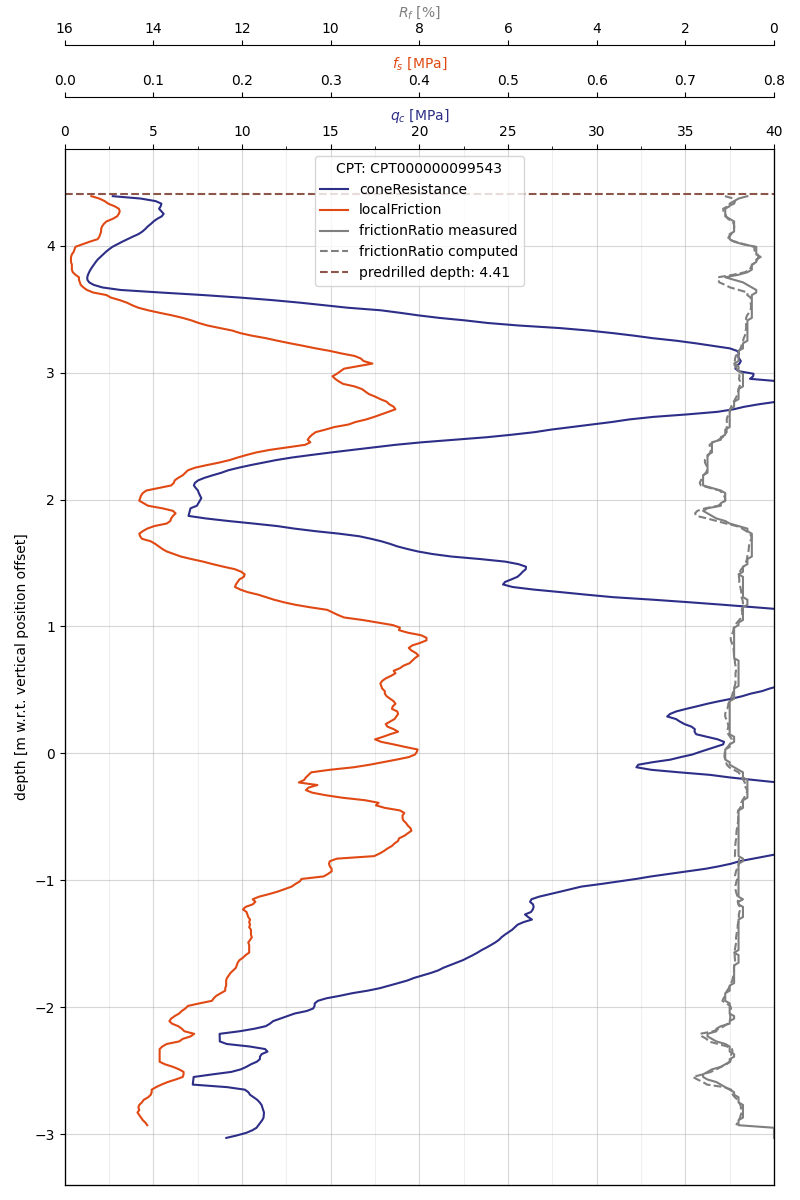
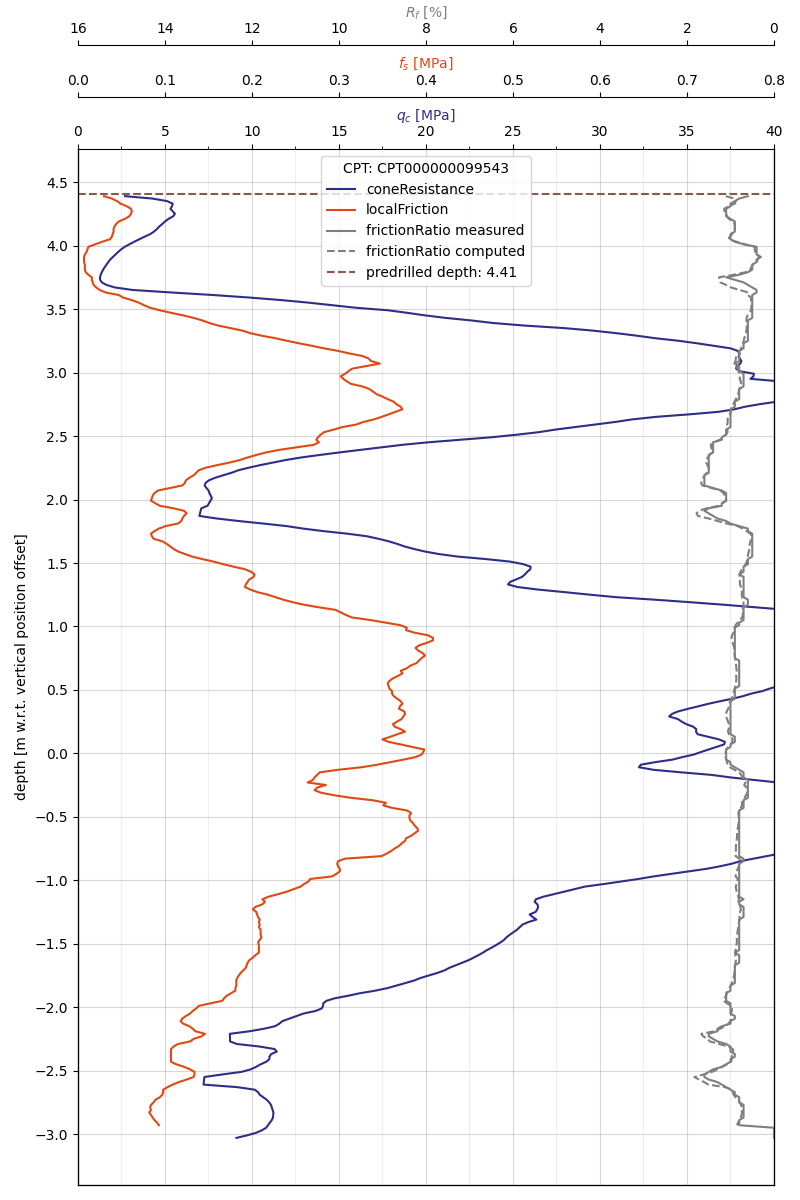
deploy: af773da8b93bf141a00030862c82b0c011303978

diff --git a/_modules/pygef/plotting.html b/_modules/pygef/plotting.html
@@ -77,6 +77,7 @@
 
 <span class="kn">import</span> <span class="nn">matplotlib.patches</span> <span class="k">as</span> <span class="nn">mpatches</span>
 <span class="kn">import</span> <span class="nn">matplotlib.pyplot</span> <span class="k">as</span> <span class="nn">plt</span>
+<span class="kn">import</span> <span class="nn">matplotlib.ticker</span> <span class="k">as</span> <span class="nn">plticker</span>
 <span class="kn">import</span> <span class="nn">numpy</span> <span class="k">as</span> <span class="nn">np</span>
 <span class="kn">from</span> <span class="nn">matplotlib.gridspec</span> <span class="kn">import</span> <span class="n">GridSpec</span>
 
@@ -89,6 +90,7 @@
     <span class="n">ctx</span> <span class="o">=</span> <span class="kc">None</span>
 
 <span class="n">FigureSize</span> <span class="o">=</span> <span class="p">(</span><span class="mi">8</span><span class="p">,</span> <span class="mi">12</span><span class="p">)</span>
+<span class="n">TickLoc</span> <span class="o">=</span> <span class="n">plticker</span><span class="o">.</span><span class="n">MultipleLocator</span><span class="p">(</span><span class="n">base</span><span class="o">=</span><span class="mf">0.5</span><span class="p">)</span>
 
 
 <div class="viewcode-block" id="plot_cpt"><a class="viewcode-back" href="../../tree/reference.html#pygef.plotting.plot_cpt">[docs]</a><span class="k">def</span> <span class="nf">plot_cpt</span><span class="p">(</span>
@@ -152,6 +154,7 @@
     <span class="n">ax</span><span class="o">.</span><span class="n">grid</span><span class="p">(</span><span class="n">which</span><span class="o">=</span><span class="s2">&quot;both&quot;</span><span class="p">)</span>
     <span class="n">ax</span><span class="o">.</span><span class="n">grid</span><span class="p">(</span><span class="n">which</span><span class="o">=</span><span class="s2">&quot;minor&quot;</span><span class="p">,</span> <span class="n">alpha</span><span class="o">=</span><span class="mf">0.2</span><span class="p">)</span>
     <span class="n">ax</span><span class="o">.</span><span class="n">grid</span><span class="p">(</span><span class="n">which</span><span class="o">=</span><span class="s2">&quot;major&quot;</span><span class="p">,</span> <span class="n">alpha</span><span class="o">=</span><span class="mf">0.5</span><span class="p">)</span>
+    <span class="n">ax</span><span class="o">.</span><span class="n">yaxis</span><span class="o">.</span><span class="n">set_major_locator</span><span class="p">(</span><span class="n">TickLoc</span><span class="p">)</span>
 
     <span class="c1"># set the properties on the localFriction axes</span>
     <span class="n">ax2</span><span class="o">.</span><span class="n">xaxis</span><span class="o">.</span><span class="n">set_ticks_position</span><span class="p">(</span><span class="s2">&quot;top&quot;</span><span class="p">)</span>
@@ -270,6 +273,7 @@
     <span class="k">else</span><span class="p">:</span>
         <span class="n">ax</span><span class="o">.</span><span class="n">set_ylabel</span><span class="p">(</span><span class="s2">&quot;depth [m]&quot;</span><span class="p">)</span>
     <span class="n">ax</span><span class="o">.</span><span class="n">set_xlabel</span><span class="p">(</span><span class="s2">&quot;cumulative soil fraction [-]&quot;</span><span class="p">)</span>
+    <span class="n">ax</span><span class="o">.</span><span class="n">yaxis</span><span class="o">.</span><span class="n">set_major_locator</span><span class="p">(</span><span class="n">TickLoc</span><span class="p">)</span>
 
     <span class="k">for</span> <span class="n">i</span> <span class="ow">in</span> <span class="nb">range</span><span class="p">(</span><span class="mi">5</span><span class="p">):</span>
         <span class="n">ax</span><span class="o">.</span><span class="n">fill_betweenx</span><span class="p">(</span>
